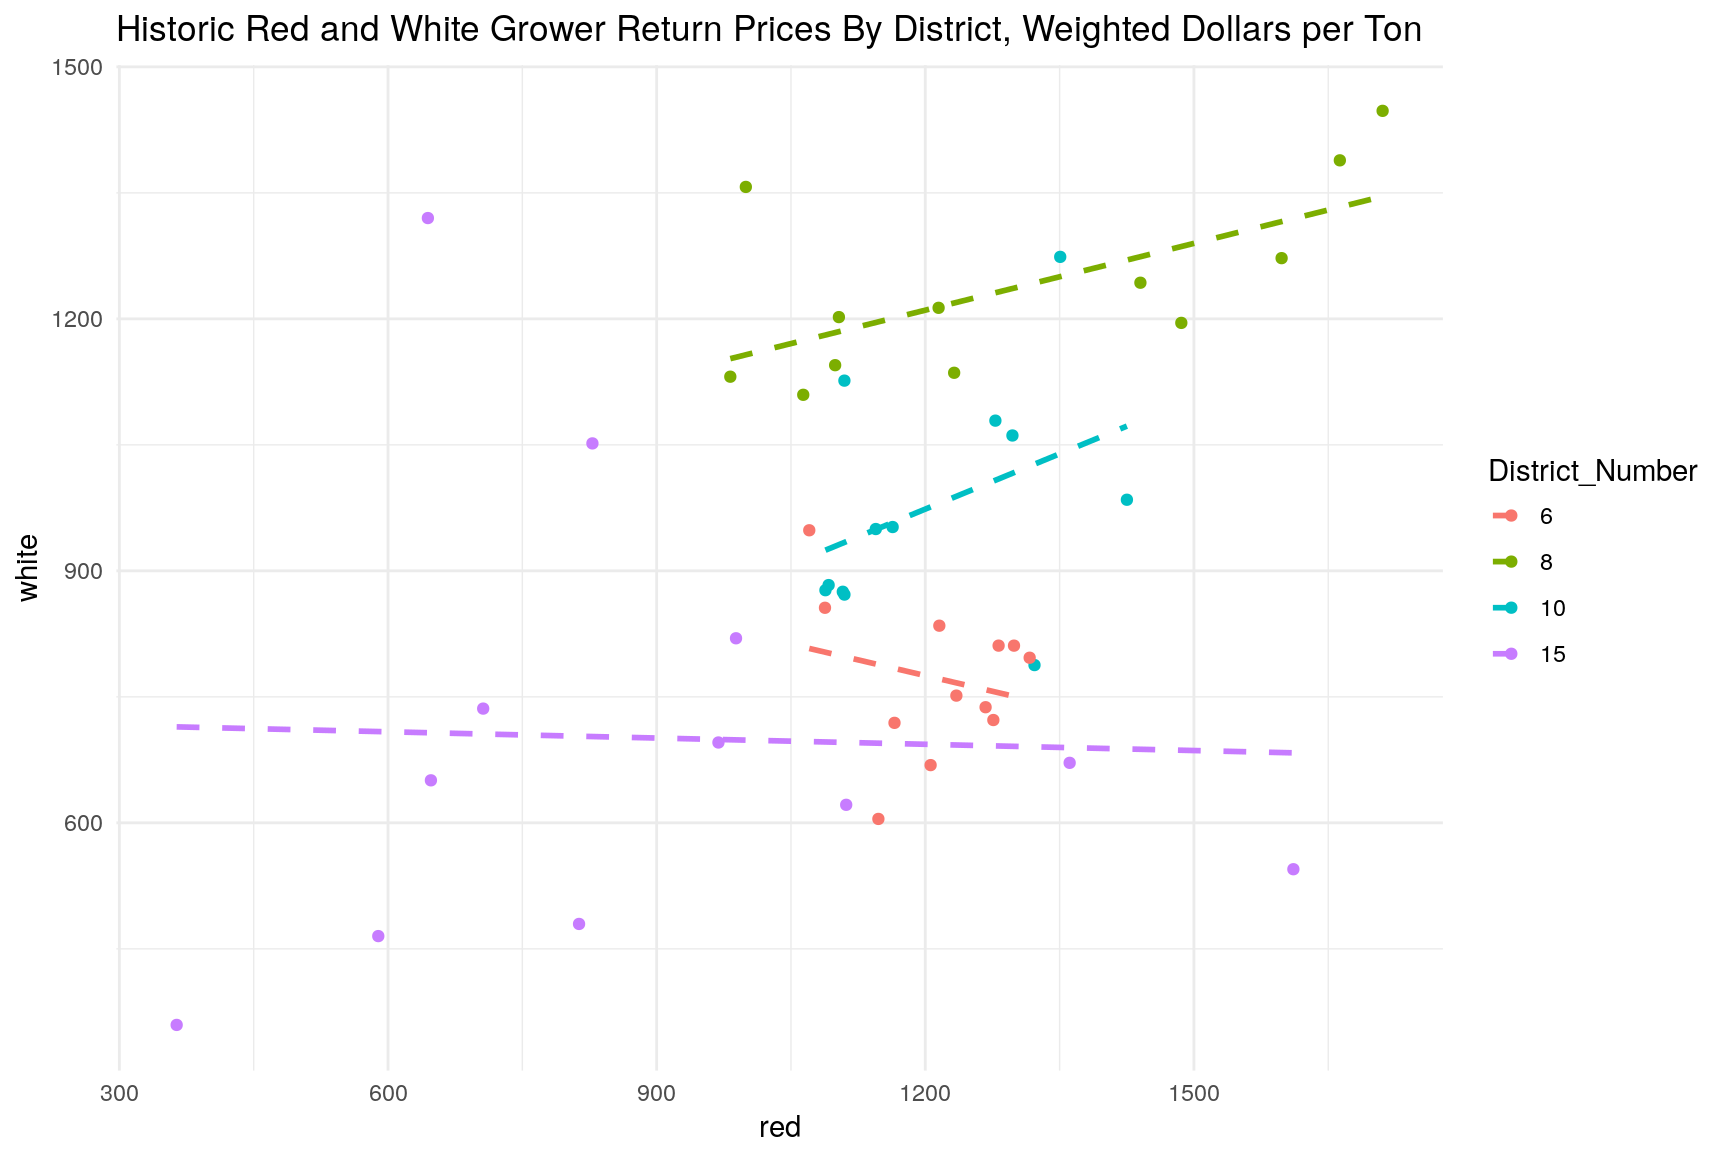
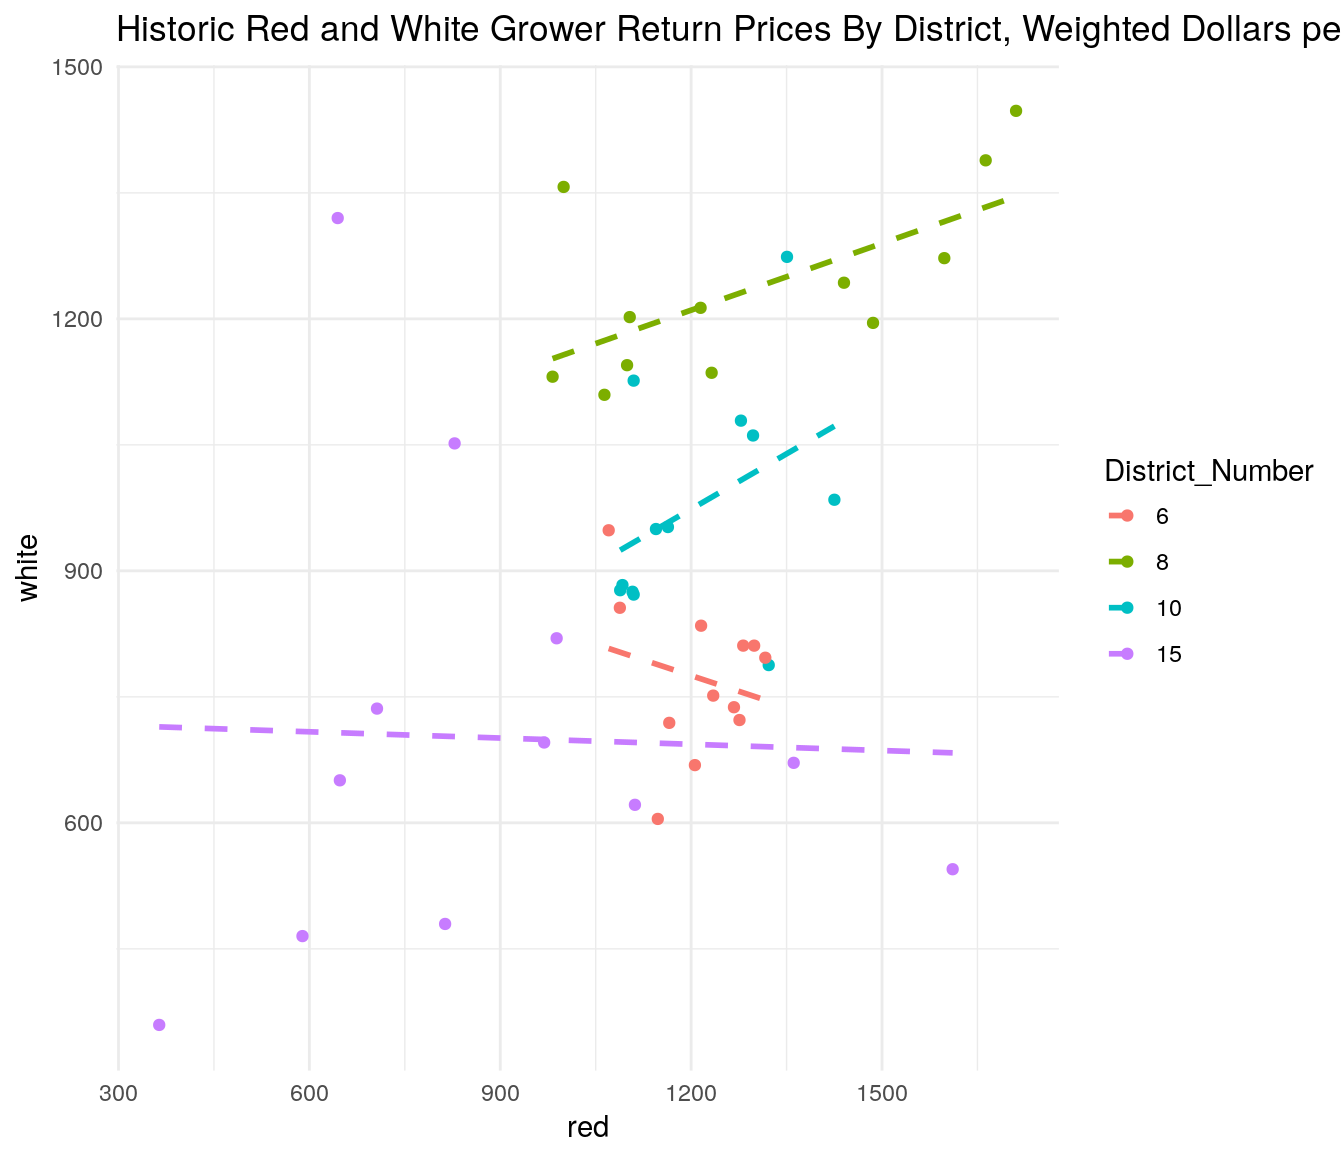
messing with new theme

diff --git a/public/2017/11/california-wine----part-1/index.html b/public/2017/11/california-wine----part-1/index.html
@@ -270,22 +270,22 @@
 </tbody>
 </table>
 <p>We can see the distribution of tonnage within California’s wine regions.</p>
-<p><img src="/post/2017-11-22-california-wine-grapes-part-1_files/figure-html/unnamed-chunk-3-1.png" width="864" /></p>
+<p><img src="/post/2017-11-22-california-wine-grapes-part-1_files/figure-html/unnamed-chunk-3-1.png" width="672" /></p>
 <p>And can see which districts grow which varieties</p>
-<iframe src="https://daniel-mikel.shinyapps.io/gc_shiny_find_varieties_col/?showcase=0" width="864" height="675px">
+<iframe src="https://daniel-mikel.shinyapps.io/gc_shiny_find_varieties_col/?showcase=0" width="672" height="675px">
 </iframe>
 <p>We can also see a distribution of prices by district. We can see a sharp difference between the higher production regions like Fresno, Madera, and North Tulare counties and the districts average weighted price.</p>
-<p><img src="/post/2017-11-22-california-wine-grapes-part-1_files/figure-html/unnamed-chunk-5-1.png" width="864" /></p>
+<p><img src="/post/2017-11-22-california-wine-grapes-part-1_files/figure-html/unnamed-chunk-5-1.png" width="672" /></p>
 <p>Price between varieties seems pretty coorolated within districts between varieties, with red wine consistently outpricing white wine in each district</p>
-<p><img src="/post/2017-11-22-california-wine-grapes-part-1_files/figure-html/unnamed-chunk-6-1.png" width="864" /></p>
+<p><img src="/post/2017-11-22-california-wine-grapes-part-1_files/figure-html/unnamed-chunk-6-1.png" width="672" /></p>
 <p>We can also see that over time, as prices fluctuate over the years, the relationship between white and red wine prices stays consistent. Here we track the price in Sonoma County from 2005 to the present. We can see that while prices have changed considerably year over year, red wine has stayed abour 1.4x the price of white wine within the district</p>
-<p><img src="/post/2017-11-22-california-wine-grapes-part-1_files/figure-html/unnamed-chunk-7-1.png" width="864" /></p>
+<p><img src="/post/2017-11-22-california-wine-grapes-part-1_files/figure-html/unnamed-chunk-7-1.png" width="672" /></p>
 <p>This can be seen across many California Wine Districts.</p>
-<p><img src="/post/2017-11-22-california-wine-grapes-part-1_files/figure-html/unnamed-chunk-8-1.png" width="864" /></p>
-<p><img src="/post/2017-11-22-california-wine-grapes-part-1_files/figure-html/unnamed-chunk-9-1.png" width="864" /></p>
-<p>But is not necessarily present in every district <img src="/post/2017-11-22-california-wine-grapes-part-1_files/figure-html/unnamed-chunk-10-1.png" width="864" /></p>
+<p><img src="/post/2017-11-22-california-wine-grapes-part-1_files/figure-html/unnamed-chunk-8-1.png" width="672" /></p>
+<p><img src="/post/2017-11-22-california-wine-grapes-part-1_files/figure-html/unnamed-chunk-9-1.png" width="672" /></p>
+<p>But is not necessarily present in every district <img src="/post/2017-11-22-california-wine-grapes-part-1_files/figure-html/unnamed-chunk-10-1.png" width="672" /></p>
 <p>We can compare historic varieties prices within regions. The interactive graph below allows you to select varieties or types within a region and compare it to other varieties and types within the same region. A full version can be found <a href="https://daniel-mikel.shinyapps.io/historic_california_grape_crush/">daniel-mikel.shinyapps.io</a></p>
-<iframe src="https://daniel-mikel.shinyapps.io/gc_variety_embed/?showcase=0" width="864" height="675px">
+<iframe src="https://daniel-mikel.shinyapps.io/gc_variety_embed/?showcase=0" width="672" height="675px">
 </iframe>
 
               

diff --git a/content/post/2017-11-22-california-wine-grapes-part-1.html b/content/post/2017-11-22-california-wine-grapes-part-1.html
@@ -64,20 +64,20 @@ runtime: shiny
 </tbody>
 </table>
 <p>We can see the distribution of tonnage within California’s wine regions.</p>
-<p><img src="/post/2017-11-22-california-wine-grapes-part-1_files/figure-html/unnamed-chunk-3-1.png" width="864" /></p>
+<p><img src="/post/2017-11-22-california-wine-grapes-part-1_files/figure-html/unnamed-chunk-3-1.png" width="672" /></p>
 <p>And can see which districts grow which varieties</p>
-<iframe src="https://daniel-mikel.shinyapps.io/gc_shiny_find_varieties_col/?showcase=0" width="864" height="675px">
+<iframe src="https://daniel-mikel.shinyapps.io/gc_shiny_find_varieties_col/?showcase=0" width="672" height="675px">
 </iframe>
 <p>We can also see a distribution of prices by district. We can see a sharp difference between the higher production regions like Fresno, Madera, and North Tulare counties and the districts average weighted price.</p>
-<p><img src="/post/2017-11-22-california-wine-grapes-part-1_files/figure-html/unnamed-chunk-5-1.png" width="864" /></p>
+<p><img src="/post/2017-11-22-california-wine-grapes-part-1_files/figure-html/unnamed-chunk-5-1.png" width="672" /></p>
 <p>Price between varieties seems pretty coorolated within districts between varieties, with red wine consistently outpricing white wine in each district</p>
-<p><img src="/post/2017-11-22-california-wine-grapes-part-1_files/figure-html/unnamed-chunk-6-1.png" width="864" /></p>
+<p><img src="/post/2017-11-22-california-wine-grapes-part-1_files/figure-html/unnamed-chunk-6-1.png" width="672" /></p>
 <p>We can also see that over time, as prices fluctuate over the years, the relationship between white and red wine prices stays consistent. Here we track the price in Sonoma County from 2005 to the present. We can see that while prices have changed considerably year over year, red wine has stayed abour 1.4x the price of white wine within the district</p>
-<p><img src="/post/2017-11-22-california-wine-grapes-part-1_files/figure-html/unnamed-chunk-7-1.png" width="864" /></p>
+<p><img src="/post/2017-11-22-california-wine-grapes-part-1_files/figure-html/unnamed-chunk-7-1.png" width="672" /></p>
 <p>This can be seen across many California Wine Districts.</p>
-<p><img src="/post/2017-11-22-california-wine-grapes-part-1_files/figure-html/unnamed-chunk-8-1.png" width="864" /></p>
-<p><img src="/post/2017-11-22-california-wine-grapes-part-1_files/figure-html/unnamed-chunk-9-1.png" width="864" /></p>
-<p>But is not necessarily present in every district <img src="/post/2017-11-22-california-wine-grapes-part-1_files/figure-html/unnamed-chunk-10-1.png" width="864" /></p>
+<p><img src="/post/2017-11-22-california-wine-grapes-part-1_files/figure-html/unnamed-chunk-8-1.png" width="672" /></p>
+<p><img src="/post/2017-11-22-california-wine-grapes-part-1_files/figure-html/unnamed-chunk-9-1.png" width="672" /></p>
+<p>But is not necessarily present in every district <img src="/post/2017-11-22-california-wine-grapes-part-1_files/figure-html/unnamed-chunk-10-1.png" width="672" /></p>
 <p>We can compare historic varieties prices within regions. The interactive graph below allows you to select varieties or types within a region and compare it to other varieties and types within the same region. A full version can be found <a href="https://daniel-mikel.shinyapps.io/historic_california_grape_crush/">daniel-mikel.shinyapps.io</a></p>
-<iframe src="https://daniel-mikel.shinyapps.io/gc_variety_embed/?showcase=0" width="864" height="675px">
+<iframe src="https://daniel-mikel.shinyapps.io/gc_variety_embed/?showcase=0" width="672" height="675px">
 </iframe>

diff --git a/content/post/2017-11-27-cleaning-data.html b/content/post/2017-11-27-cleaning-data.html
@@ -3,7 +3,6 @@ title: "Cleaning Data"
 author: "Daniel Mikel"
 date: "2017-11-27T21:13:14-05:00"
 output: html_document
-fig_width: 9 
 ---
 
 
